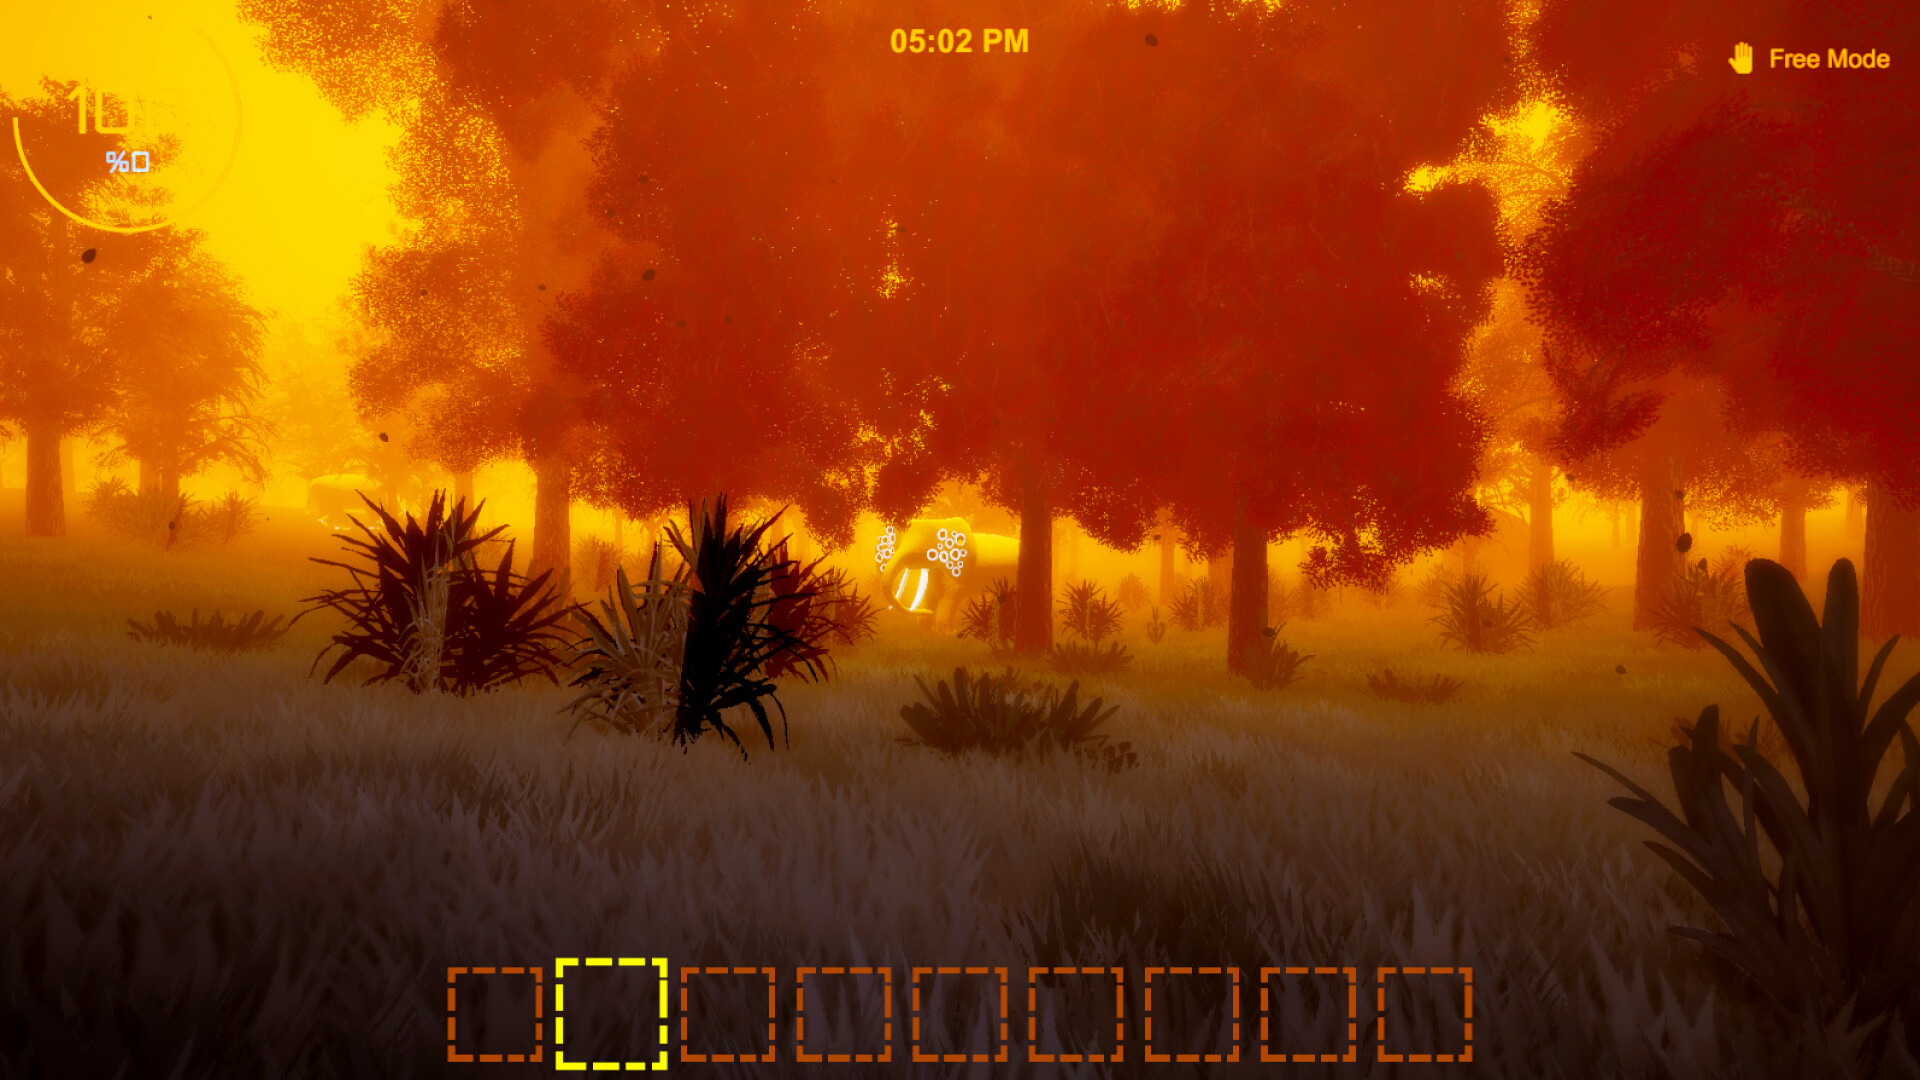
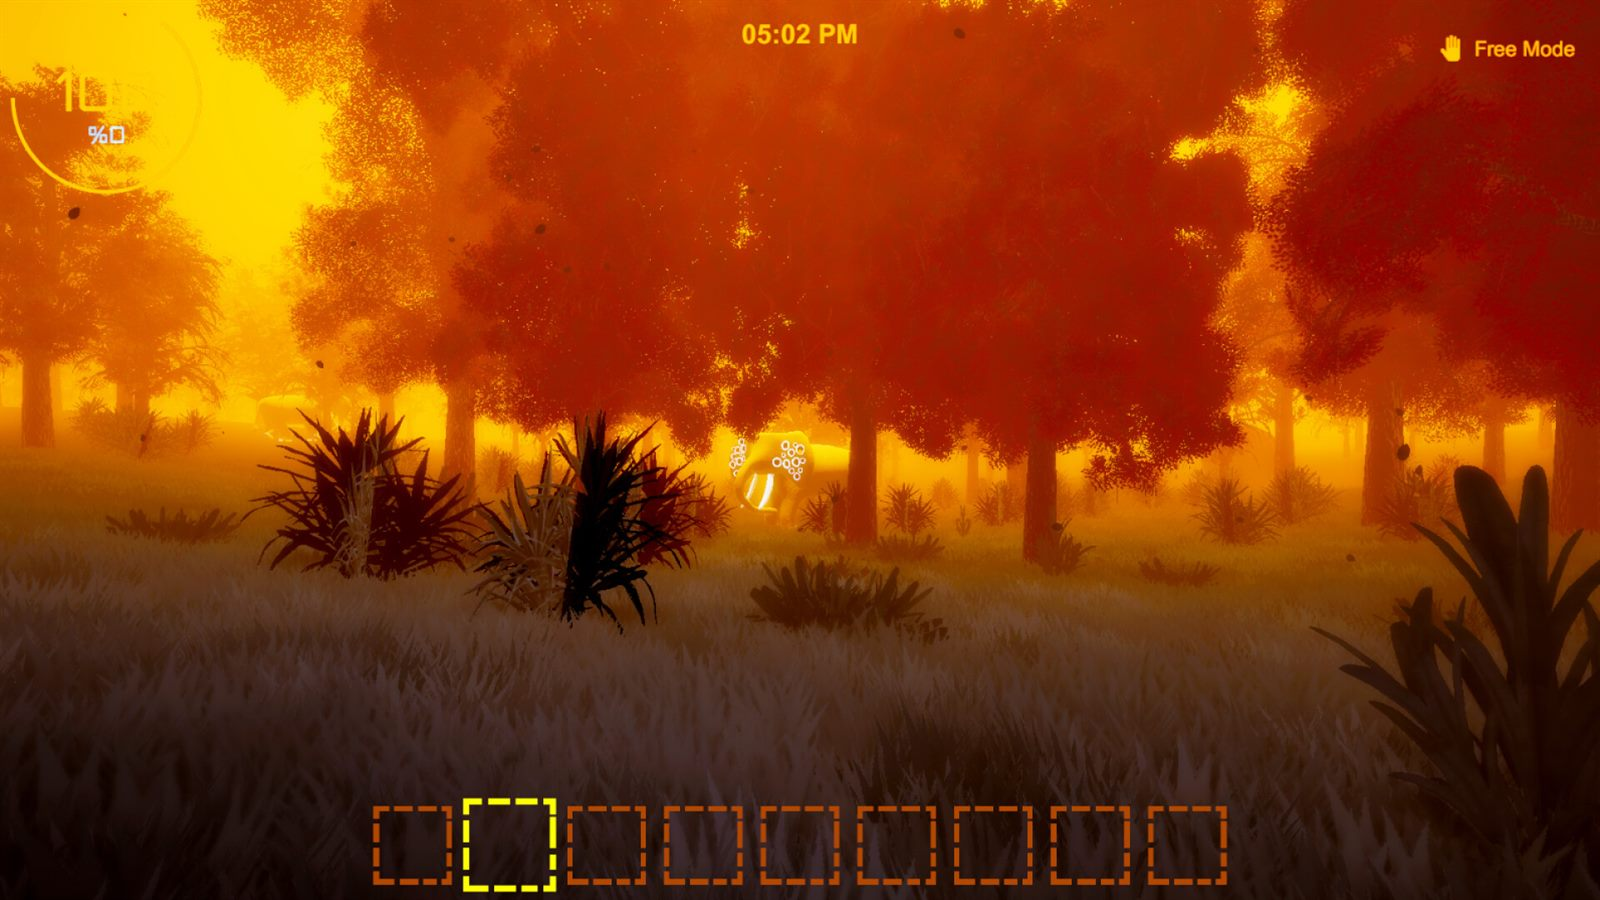
Optimize all image assets reducing site size from 22MB to 5MB and remove scroll jitter

diff --git a/index.html b/index.html
@@ -1493,9 +1493,7 @@
     
         /* Performance & Layout Optimizations */
         section, .steam-game-item, .mobile-featured-card, .mobile-card, .jam-card {
-            content-visibility: auto;
-            contain-intrinsic-size: 1px 500px;
-        }
+}
 
         .mobile-sub-grid .mobile-card {
             padding: 22px;
@@ -1925,14 +1923,14 @@
                             </div>
                         </div>
                     </div>
-                    <div class="jam-media-box" onclick="openLightbox(['src/Albino%20And%20Curse/O9E45d.png', 'src/Albino%20And%20Curse/ZF5zp8.png', 'src/Albino%20And%20Curse/k%2BPieh.png', 'src/Albino%20And%20Curse/lkHnfR.png', 'src/Albino%20And%20Curse/t6CqsU.png', 'src/Albino%20And%20Curse/vTTed3.png'], 0, 'Albino And Curse Gameplay')">
-                        <img src="src/Albino%20And%20Curse/O9E45d.png" alt="Albino And Curse Preview" loading="lazy" decoding="async">
+                    <div class="jam-media-box" onclick="openLightbox(['src/Albino%20And%20Curse/O9E45d.jpg', 'src/Albino%20And%20Curse/ZF5zp8.jpg', 'src/Albino%20And%20Curse/k%2BPieh.jpg', 'src/Albino%20And%20Curse/lkHnfR.jpg', 'src/Albino%20And%20Curse/t6CqsU.jpg', 'src/Albino%20And%20Curse/vTTed3.jpg'], 0, 'Albino And Curse Gameplay')">
+                        <img src="src/Albino%20And%20Curse/O9E45d.jpg" alt="Albino And Curse Preview" loading="lazy" decoding="async">
                     </div>
                     <div class="thumbnails-row" style="margin-bottom: 12px;">
-                        <button class="thumb-btn" onclick="openLightbox(['src/Albino%20And%20Curse/O9E45d.png', 'src/Albino%20And%20Curse/ZF5zp8.png', 'src/Albino%20And%20Curse/k%2BPieh.png', 'src/Albino%20And%20Curse/lkHnfR.png', 'src/Albino%20And%20Curse/t6CqsU.png', 'src/Albino%20And%20Curse/vTTed3.png'], 0, 'Albino And Curse Gameplay')"><img src="src/Albino%20And%20Curse/O9E45d.png" alt="Thumb" loading="lazy" decoding="async"></button>
-                        <button class="thumb-btn" onclick="openLightbox(['src/Albino%20And%20Curse/O9E45d.png', 'src/Albino%20And%20Curse/ZF5zp8.png', 'src/Albino%20And%20Curse/k%2BPieh.png', 'src/Albino%20And%20Curse/lkHnfR.png', 'src/Albino%20And%20Curse/t6CqsU.png', 'src/Albino%20And%20Curse/vTTed3.png'], 1, 'Albino And Curse Gameplay')"><img src="src/Albino%20And%20Curse/ZF5zp8.png" alt="Thumb" loading="lazy" decoding="async"></button>
-                        <button class="thumb-btn" onclick="openLightbox(['src/Albino%20And%20Curse/O9E45d.png', 'src/Albino%20And%20Curse/ZF5zp8.png', 'src/Albino%20And%20Curse/k%2BPieh.png', 'src/Albino%20And%20Curse/lkHnfR.png', 'src/Albino%20And%20Curse/t6CqsU.png', 'src/Albino%20And%20Curse/vTTed3.png'], 2, 'Albino And Curse Gameplay')"><img src="src/Albino%20And%20Curse/k%2BPieh.png" alt="Thumb" loading="lazy" decoding="async"></button>
-                        <button class="thumb-btn" onclick="openLightbox(['src/Albino%20And%20Curse/O9E45d.png', 'src/Albino%20And%20Curse/ZF5zp8.png', 'src/Albino%20And%20Curse/k%2BPieh.png', 'src/Albino%20And%20Curse/lkHnfR.png', 'src/Albino%20And%20Curse/t6CqsU.png', 'src/Albino%20And%20Curse/vTTed3.png'], 3, 'Albino And Curse Gameplay')"><img src="src/Albino%20And%20Curse/lkHnfR.png" alt="Thumb" loading="lazy" decoding="async"></button>
+                        <button class="thumb-btn" onclick="openLightbox(['src/Albino%20And%20Curse/O9E45d.jpg', 'src/Albino%20And%20Curse/ZF5zp8.jpg', 'src/Albino%20And%20Curse/k%2BPieh.jpg', 'src/Albino%20And%20Curse/lkHnfR.jpg', 'src/Albino%20And%20Curse/t6CqsU.jpg', 'src/Albino%20And%20Curse/vTTed3.jpg'], 0, 'Albino And Curse Gameplay')"><img src="src/Albino%20And%20Curse/O9E45d.jpg" alt="Thumb" loading="lazy" decoding="async"></button>
+                        <button class="thumb-btn" onclick="openLightbox(['src/Albino%20And%20Curse/O9E45d.jpg', 'src/Albino%20And%20Curse/ZF5zp8.jpg', 'src/Albino%20And%20Curse/k%2BPieh.jpg', 'src/Albino%20And%20Curse/lkHnfR.jpg', 'src/Albino%20And%20Curse/t6CqsU.jpg', 'src/Albino%20And%20Curse/vTTed3.jpg'], 1, 'Albino And Curse Gameplay')"><img src="src/Albino%20And%20Curse/ZF5zp8.jpg" alt="Thumb" loading="lazy" decoding="async"></button>
+                        <button class="thumb-btn" onclick="openLightbox(['src/Albino%20And%20Curse/O9E45d.jpg', 'src/Albino%20And%20Curse/ZF5zp8.jpg', 'src/Albino%20And%20Curse/k%2BPieh.jpg', 'src/Albino%20And%20Curse/lkHnfR.jpg', 'src/Albino%20And%20Curse/t6CqsU.jpg', 'src/Albino%20And%20Curse/vTTed3.jpg'], 2, 'Albino And Curse Gameplay')"><img src="src/Albino%20And%20Curse/k%2BPieh.jpg" alt="Thumb" loading="lazy" decoding="async"></button>
+                        <button class="thumb-btn" onclick="openLightbox(['src/Albino%20And%20Curse/O9E45d.jpg', 'src/Albino%20And%20Curse/ZF5zp8.jpg', 'src/Albino%20And%20Curse/k%2BPieh.jpg', 'src/Albino%20And%20Curse/lkHnfR.jpg', 'src/Albino%20And%20Curse/t6CqsU.jpg', 'src/Albino%20And%20Curse/vTTed3.jpg'], 3, 'Albino And Curse Gameplay')"><img src="src/Albino%20And%20Curse/lkHnfR.jpg" alt="Thumb" loading="lazy" decoding="async"></button>
                     </div>
                     <p>Solo-programmed and designed for a university module (2-person team). Handled all programming, systems, and combat art while collaborating on general 2D sprites.</p>
                     <a href="https://bruhfurki.itch.io/albino-and-curse" target="_blank" style="display: inline-flex; align-items: center; gap: 8px; margin-top: auto; font-weight: 600; color: var(--accent-green-bright); font-size: 0.9rem;">
@@ -1983,14 +1981,14 @@
                             </div>
                         </div>
                     </div>
-                    <div class="jam-media-box" onclick="openLightbox(['src/The%20Mindbreak/9LcQxaZdnS-1766327054.png', 'src/The%20Mindbreak/UdG2Vys9C6-1766327055%20(2).png', 'src/The%20Mindbreak/rWAE3sY7BK-1766327054.png', 'src/The%20Mindbreak/tOv0UdyX6r-1766327054.png', 'src/The%20Mindbreak/xTVnlpfwzU-1766327053.png'], 0, 'The Mindbreak Gameplay')">
-                        <img src="src/The%20Mindbreak/9LcQxaZdnS-1766327054.png" alt="The Mindbreak Preview" loading="lazy" decoding="async">
+                    <div class="jam-media-box" onclick="openLightbox(['src/The%20Mindbreak/9LcQxaZdnS-1766327054.jpg', 'src/The%20Mindbreak/UdG2Vys9C6-1766327055%20(2).jpg', 'src/The%20Mindbreak/rWAE3sY7BK-1766327054.png', 'src/The%20Mindbreak/tOv0UdyX6r-1766327054.jpg', 'src/The%20Mindbreak/xTVnlpfwzU-1766327053.png'], 0, 'The Mindbreak Gameplay')">
+                        <img src="src/The%20Mindbreak/9LcQxaZdnS-1766327054.jpg" alt="The Mindbreak Preview" loading="lazy" decoding="async">
                     </div>
                     <div class="thumbnails-row" style="margin-bottom: 12px;">
-                        <button class="thumb-btn" onclick="openLightbox(['src/The%20Mindbreak/9LcQxaZdnS-1766327054.png', 'src/The%20Mindbreak/UdG2Vys9C6-1766327055%20(2).png', 'src/The%20Mindbreak/rWAE3sY7BK-1766327054.png', 'src/The%20Mindbreak/tOv0UdyX6r-1766327054.png', 'src/The%20Mindbreak/xTVnlpfwzU-1766327053.png'], 0, 'The Mindbreak Gameplay')"><img src="src/The%20Mindbreak/9LcQxaZdnS-1766327054.png" alt="Thumb" loading="lazy" decoding="async"></button>
-                        <button class="thumb-btn" onclick="openLightbox(['src/The%20Mindbreak/9LcQxaZdnS-1766327054.png', 'src/The%20Mindbreak/UdG2Vys9C6-1766327055%20(2).png', 'src/The%20Mindbreak/rWAE3sY7BK-1766327054.png', 'src/The%20Mindbreak/tOv0UdyX6r-1766327054.png', 'src/The%20Mindbreak/xTVnlpfwzU-1766327053.png'], 1, 'The Mindbreak Gameplay')"><img src="src/The%20Mindbreak/UdG2Vys9C6-1766327055%20(2).png" alt="Thumb" loading="lazy" decoding="async"></button>
-                        <button class="thumb-btn" onclick="openLightbox(['src/The%20Mindbreak/9LcQxaZdnS-1766327054.png', 'src/The%20Mindbreak/UdG2Vys9C6-1766327055%20(2).png', 'src/The%20Mindbreak/rWAE3sY7BK-1766327054.png', 'src/The%20Mindbreak/tOv0UdyX6r-1766327054.png', 'src/The%20Mindbreak/xTVnlpfwzU-1766327053.png'], 2, 'The Mindbreak Gameplay')"><img src="src/The%20Mindbreak/rWAE3sY7BK-1766327054.png" alt="Thumb" loading="lazy" decoding="async"></button>
-                        <button class="thumb-btn" onclick="openLightbox(['src/The%20Mindbreak/9LcQxaZdnS-1766327054.png', 'src/The%20Mindbreak/UdG2Vys9C6-1766327055%20(2).png', 'src/The%20Mindbreak/rWAE3sY7BK-1766327054.png', 'src/The%20Mindbreak/tOv0UdyX6r-1766327054.png', 'src/The%20Mindbreak/xTVnlpfwzU-1766327053.png'], 3, 'The Mindbreak Gameplay')"><img src="src/The%20Mindbreak/tOv0UdyX6r-1766327054.png" alt="Thumb" loading="lazy" decoding="async"></button>
+                        <button class="thumb-btn" onclick="openLightbox(['src/The%20Mindbreak/9LcQxaZdnS-1766327054.jpg', 'src/The%20Mindbreak/UdG2Vys9C6-1766327055%20(2).jpg', 'src/The%20Mindbreak/rWAE3sY7BK-1766327054.png', 'src/The%20Mindbreak/tOv0UdyX6r-1766327054.jpg', 'src/The%20Mindbreak/xTVnlpfwzU-1766327053.png'], 0, 'The Mindbreak Gameplay')"><img src="src/The%20Mindbreak/9LcQxaZdnS-1766327054.jpg" alt="Thumb" loading="lazy" decoding="async"></button>
+                        <button class="thumb-btn" onclick="openLightbox(['src/The%20Mindbreak/9LcQxaZdnS-1766327054.jpg', 'src/The%20Mindbreak/UdG2Vys9C6-1766327055%20(2).jpg', 'src/The%20Mindbreak/rWAE3sY7BK-1766327054.png', 'src/The%20Mindbreak/tOv0UdyX6r-1766327054.jpg', 'src/The%20Mindbreak/xTVnlpfwzU-1766327053.png'], 1, 'The Mindbreak Gameplay')"><img src="src/The%20Mindbreak/UdG2Vys9C6-1766327055%20(2).jpg" alt="Thumb" loading="lazy" decoding="async"></button>
+                        <button class="thumb-btn" onclick="openLightbox(['src/The%20Mindbreak/9LcQxaZdnS-1766327054.jpg', 'src/The%20Mindbreak/UdG2Vys9C6-1766327055%20(2).jpg', 'src/The%20Mindbreak/rWAE3sY7BK-1766327054.png', 'src/The%20Mindbreak/tOv0UdyX6r-1766327054.jpg', 'src/The%20Mindbreak/xTVnlpfwzU-1766327053.png'], 2, 'The Mindbreak Gameplay')"><img src="src/The%20Mindbreak/rWAE3sY7BK-1766327054.png" alt="Thumb" loading="lazy" decoding="async"></button>
+                        <button class="thumb-btn" onclick="openLightbox(['src/The%20Mindbreak/9LcQxaZdnS-1766327054.jpg', 'src/The%20Mindbreak/UdG2Vys9C6-1766327055%20(2).jpg', 'src/The%20Mindbreak/rWAE3sY7BK-1766327054.png', 'src/The%20Mindbreak/tOv0UdyX6r-1766327054.jpg', 'src/The%20Mindbreak/xTVnlpfwzU-1766327053.png'], 3, 'The Mindbreak Gameplay')"><img src="src/The%20Mindbreak/tOv0UdyX6r-1766327054.jpg" alt="Thumb" loading="lazy" decoding="async"></button>
                     </div>
                     <p>Led a 4-person team in a high-stakes Game Jam; spearheaded core game design, architectural logic, and gameplay programming while delegating audio and visual pipelines.</p>
                     <a href="https://fiuby.com/games/the-mindbreak" target="_blank" style="display: inline-flex; align-items: center; gap: 8px; margin-top: auto; font-weight: 600; color: var(--accent-green-bright); font-size: 0.9rem;">
@@ -2012,14 +2010,14 @@
                             </div>
                         </div>
                     </div>
-                    <div class="jam-media-box" onclick="openLightbox(['src/The%20Basement/33NPjU.png', 'src/The%20Basement/7U7lmw.png', 'src/The%20Basement/SUSUx2.png', 'src/The%20Basement/fOjSrX.png'], 0, 'The Basement Gameplay')">
-                        <img src="src/The%20Basement/33NPjU.png" alt="The Basement Preview" loading="lazy" decoding="async">
+                    <div class="jam-media-box" onclick="openLightbox(['src/The%20Basement/33NPjU.jpg', 'src/The%20Basement/7U7lmw.jpg', 'src/The%20Basement/SUSUx2.jpg', 'src/The%20Basement/fOjSrX.jpg'], 0, 'The Basement Gameplay')">
+                        <img src="src/The%20Basement/33NPjU.jpg" alt="The Basement Preview" loading="lazy" decoding="async">
                     </div>
                     <div class="thumbnails-row" style="margin-bottom: 12px;">
-                        <button class="thumb-btn" onclick="openLightbox(['src/The%20Basement/33NPjU.png', 'src/The%20Basement/7U7lmw.png', 'src/The%20Basement/SUSUx2.png', 'src/The%20Basement/fOjSrX.png'], 0, 'The Basement Gameplay')"><img src="src/The%20Basement/33NPjU.png" alt="Thumb" loading="lazy" decoding="async"></button>
-                        <button class="thumb-btn" onclick="openLightbox(['src/The%20Basement/33NPjU.png', 'src/The%20Basement/7U7lmw.png', 'src/The%20Basement/SUSUx2.png', 'src/The%20Basement/fOjSrX.png'], 1, 'The Basement Gameplay')"><img src="src/The%20Basement/7U7lmw.png" alt="Thumb" loading="lazy" decoding="async"></button>
-                        <button class="thumb-btn" onclick="openLightbox(['src/The%20Basement/33NPjU.png', 'src/The%20Basement/7U7lmw.png', 'src/The%20Basement/SUSUx2.png', 'src/The%20Basement/fOjSrX.png'], 2, 'The Basement Gameplay')"><img src="src/The%20Basement/SUSUx2.png" alt="Thumb" loading="lazy" decoding="async"></button>
-                        <button class="thumb-btn" onclick="openLightbox(['src/The%20Basement/33NPjU.png', 'src/The%20Basement/7U7lmw.png', 'src/The%20Basement/SUSUx2.png', 'src/The%20Basement/fOjSrX.png'], 3, 'The Basement Gameplay')"><img src="src/The%20Basement/fOjSrX.png" alt="Thumb" loading="lazy" decoding="async"></button>
+                        <button class="thumb-btn" onclick="openLightbox(['src/The%20Basement/33NPjU.jpg', 'src/The%20Basement/7U7lmw.jpg', 'src/The%20Basement/SUSUx2.jpg', 'src/The%20Basement/fOjSrX.jpg'], 0, 'The Basement Gameplay')"><img src="src/The%20Basement/33NPjU.jpg" alt="Thumb" loading="lazy" decoding="async"></button>
+                        <button class="thumb-btn" onclick="openLightbox(['src/The%20Basement/33NPjU.jpg', 'src/The%20Basement/7U7lmw.jpg', 'src/The%20Basement/SUSUx2.jpg', 'src/The%20Basement/fOjSrX.jpg'], 1, 'The Basement Gameplay')"><img src="src/The%20Basement/7U7lmw.jpg" alt="Thumb" loading="lazy" decoding="async"></button>
+                        <button class="thumb-btn" onclick="openLightbox(['src/The%20Basement/33NPjU.jpg', 'src/The%20Basement/7U7lmw.jpg', 'src/The%20Basement/SUSUx2.jpg', 'src/The%20Basement/fOjSrX.jpg'], 2, 'The Basement Gameplay')"><img src="src/The%20Basement/SUSUx2.jpg" alt="Thumb" loading="lazy" decoding="async"></button>
+                        <button class="thumb-btn" onclick="openLightbox(['src/The%20Basement/33NPjU.jpg', 'src/The%20Basement/7U7lmw.jpg', 'src/The%20Basement/SUSUx2.jpg', 'src/The%20Basement/fOjSrX.jpg'], 3, 'The Basement Gameplay')"><img src="src/The%20Basement/fOjSrX.jpg" alt="Thumb" loading="lazy" decoding="async"></button>
                     </div>
                     <p>Created an early-stage solo jam prototype focusing on atmospheric tension, rapid modular level design, and fast state-machine programming under tight time constraints.</p>
                     <a href="https://bruhfurki.itch.io/the-basement" target="_blank" style="display: inline-flex; align-items: center; gap: 8px; margin-top: auto; font-weight: 600; color: var(--accent-green-bright); font-size: 0.9rem;">
